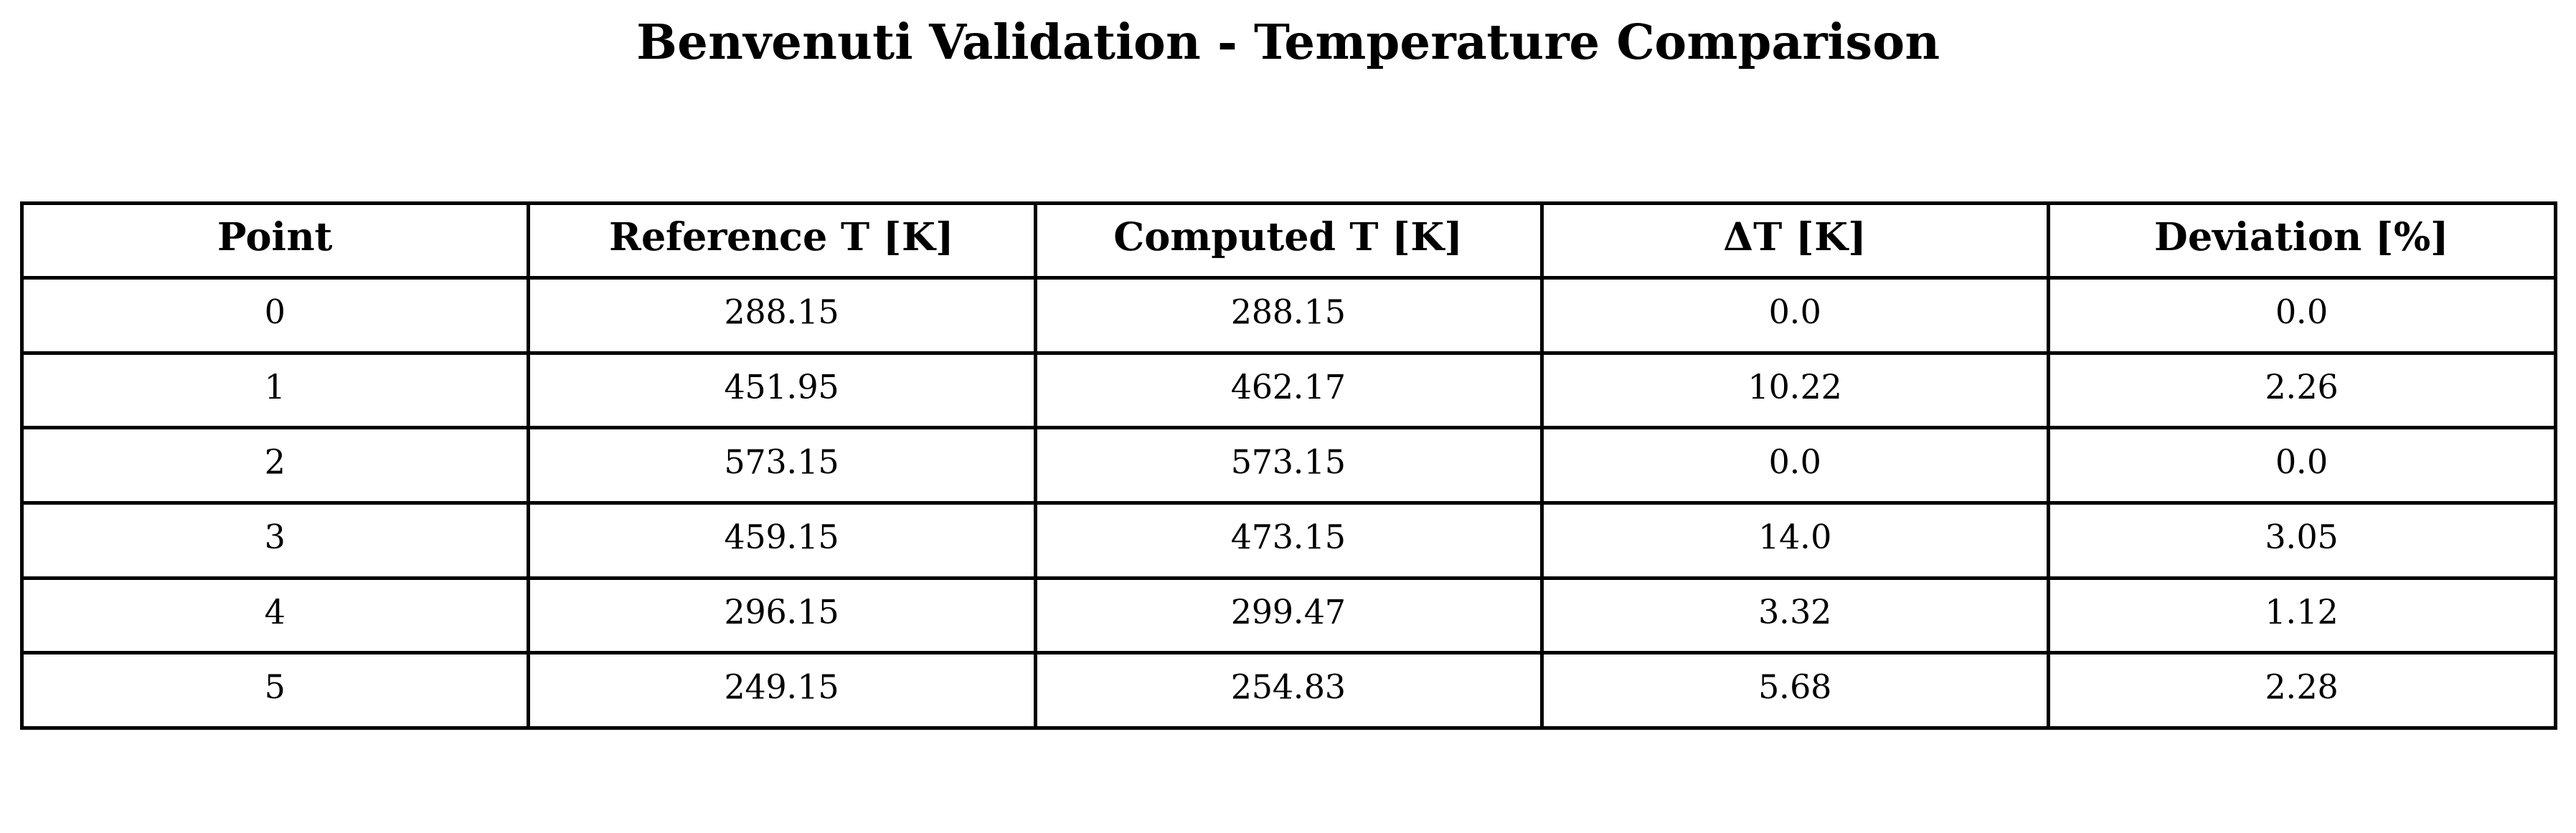
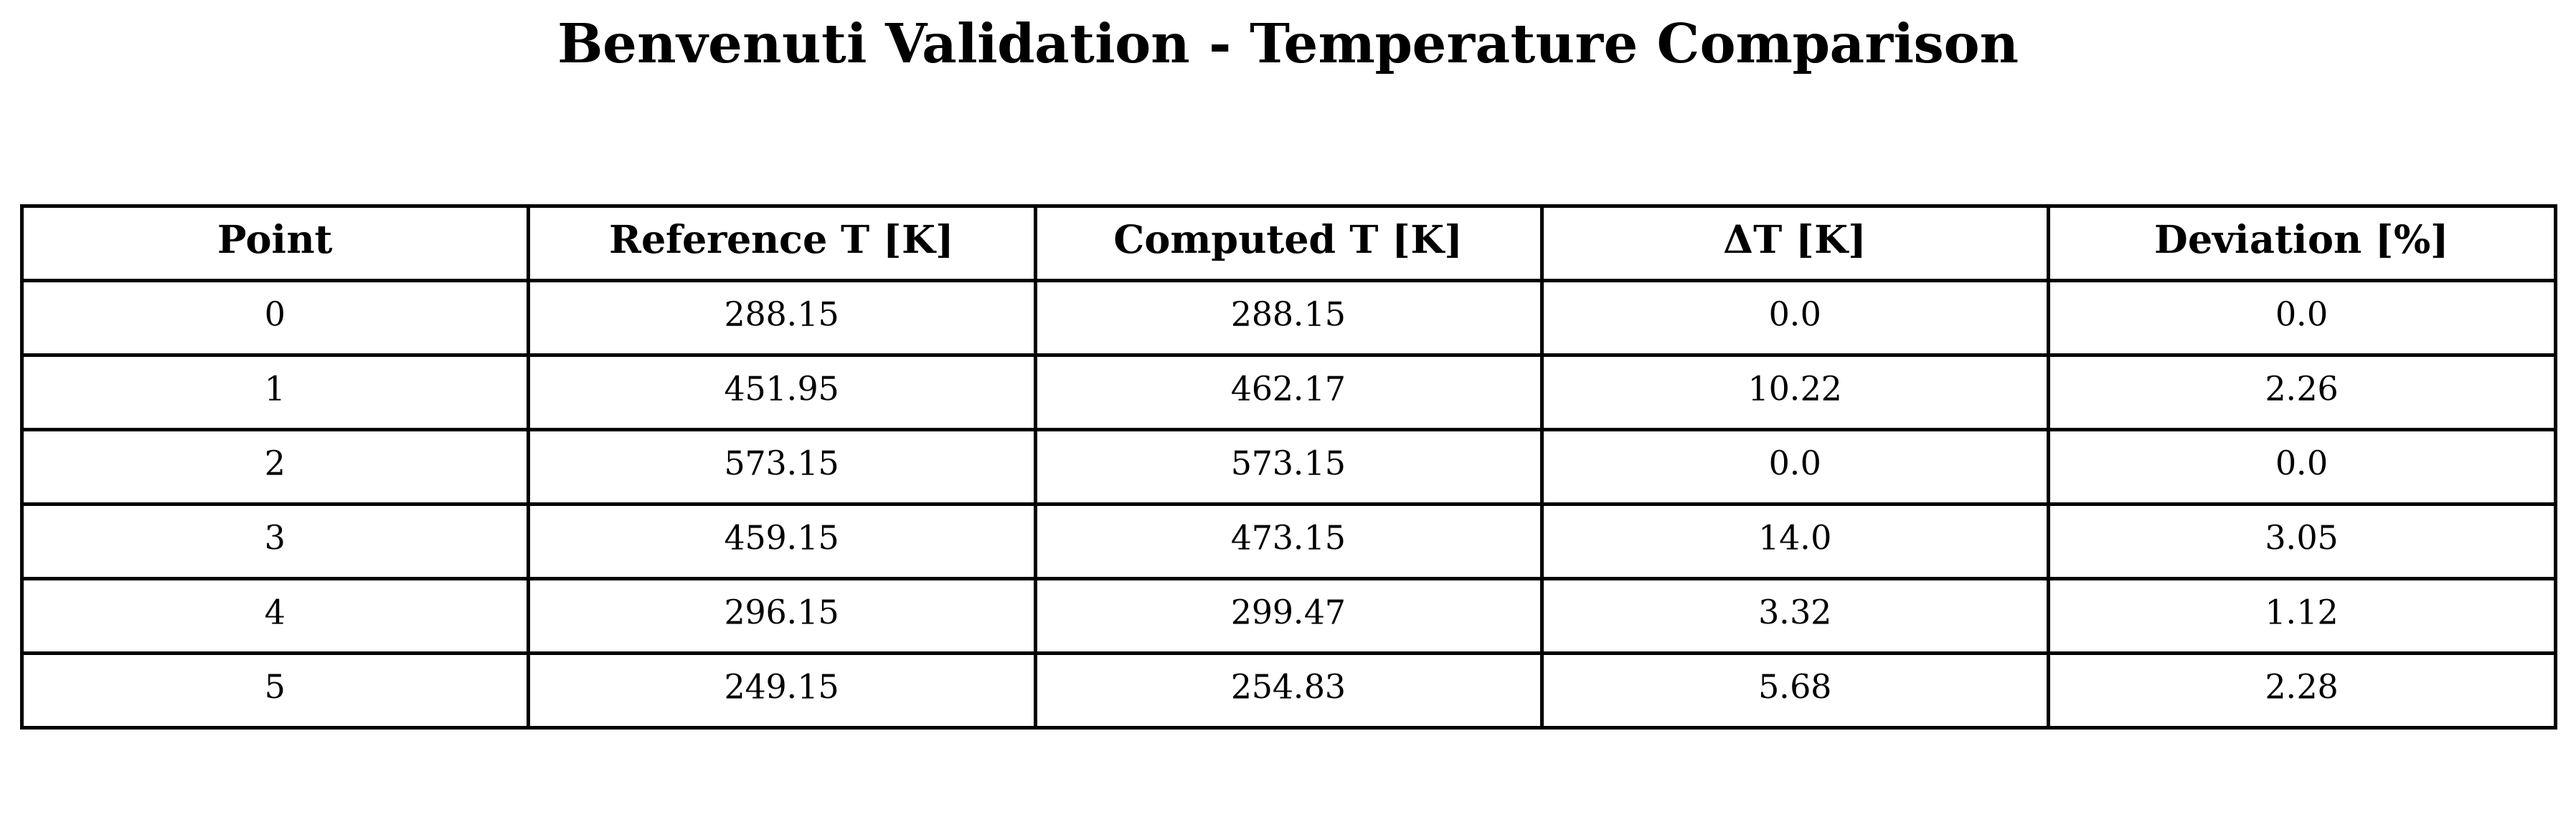
previous changes implemnted

diff --git a/main/all_hthp.py b/main/all_hthp.py
@@ -17,6 +17,8 @@ from src import (
     plot_exergy_plots,
     plot_lcoh_scenarios_stacked,
     plot_delta_lcoh_analysis,
+    plot_ts_diagram,
+    plot_hx_diagram,
 )
 
 # One entry per cycle: "file_name" matches the file_name each plant script
@@ -54,6 +56,13 @@ lcoh_csv_paths = [
     RESULTS_DIR / "lcoh" / f"{cycle['file_name']}_lcoh.csv" for cycle in CYCLES
 ]
 cycle_labels = [cycle["label"] for cycle in CYCLES]
+states_csv_paths = [
+    RESULTS_DIR / "connections" / f"{cycle['file_name']}_connections.csv"
+    for cycle in CYCLES
+]
+hx_csv_paths = [
+    RESULTS_DIR / "hx" / f"{cycle['file_name']}_hx_table.csv" for cycle in CYCLES
+]
 
 # 1. Exergy destruction, all four cycles side by side
 plot_exergy_destruction_stacked(
@@ -107,4 +116,34 @@ plot_delta_lcoh_analysis(
     pair_labels=["Base", "Intercooled"],
     save_path=FIGURES_DIR,
     file_name="all_hthp",
+)
+
+# 6. T-s diagrams, base vs intercooled on the same graph, and Standalone vs TES-Integrated for each cycle on the same graph
+plot_ts_diagram(
+    [states_csv_paths[0], states_csv_paths[1]],
+    cycle_labels=["Standalone Base Rec.", "Standalone Intercooled Rec."],
+    save_path=FIGURES_DIR,
+    file_name="standalone_hthp",
+)
+
+plot_ts_diagram(
+    [
+        [states_csv_paths[0], states_csv_paths[2]],  # base: standalone, TES
+        [states_csv_paths[1], states_csv_paths[3]],  # intercooled: standalone, TES
+    ],
+    cycle_labels=[
+        ["Standalone Base Rec.", "TES-Integrated Base Rec."],
+        ["Standalone Intercooled Rec.", "TES-Integrated Intercooled Rec."],
+    ],
+    save_path=FIGURES_DIR,
+    file_name="all_hthp",
+)
+
+plot_hx_diagram(
+    [
+        [hx_csv_paths[0]],
+        [hx_csv_paths[1]],
+    ],
+    save_path=FIGURES_DIR,
+    file_name="standalone_hthp",
 )
